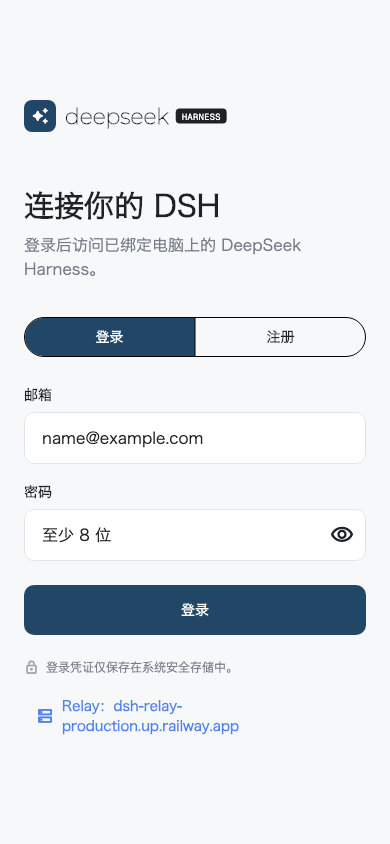
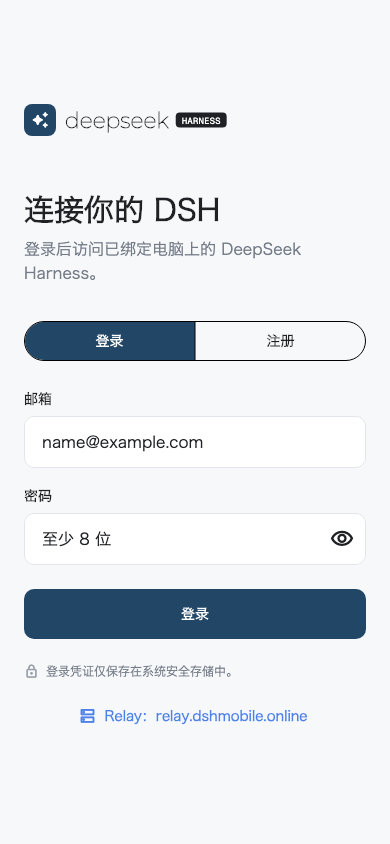
Move public mobile sessions onto the stable Relay hostname
Make relay.dshmobile.online the production default, advance the Android app version, refresh the login screenshot, and lock the hostname in configuration tests.

Constraint: Release builds require HTTPS and must keep private Relay overrides working
Rejected: Keep the Railway-generated hostname as a fallback | preserves provider coupling in every installed APK
Confidence: high
Scope-risk: moderate
Directive: Treat relay.dshmobile.online as the public client contract; change it only with a coordinated release
Tested: dart format, flutter analyze, 33 Flutter tests, screenshot generation, Android debug APK build
Not-tested: Physical Android upgrade from v0.1.0

diff --git a/lib/core/app_config.dart b/lib/core/app_config.dart
@@ -1,8 +1,7 @@
 class AppConfig {
   const AppConfig({required this.relayBaseUrl, required this.useMock});
 
-  static const productionRelayUrl =
-      'https://dsh-relay-production.up.railway.app';
+  static const productionRelayUrl = 'https://relay.dshmobile.online';
 
   factory AppConfig.fromEnvironment({String? savedRelayUrl}) {
     final config = AppConfig(

diff --git a/test/app_config_test.dart b/test/app_config_test.dart
@@ -7,6 +7,7 @@ void main() {
 
     expect(config.useMock, isFalse);
     expect(config.relayBaseUrl, AppConfig.productionRelayUrl);
+    expect(config.relayBaseUrl, 'https://relay.dshmobile.online');
     expect(config.relayOrigin.scheme, 'https');
   });
 

diff --git a/README.md b/README.md
@@ -25,7 +25,7 @@ The APK uses application ID `io.github.apriljk.dshremote`. Verify the downloaded
 
 ## Run with the production Relay
 
-The default build connects to the deployed HTTPS Relay:
+The default build connects to `https://relay.dshmobile.online`:
 
 ```bash
 flutter run
@@ -46,7 +46,7 @@ Use any valid email, a password with at least eight characters, and any six-digi
 Install the `@april-jk/dsh-mobile` plugin into the DSH web profile, then start DSH:
 
 ```bash
-dsh plugin --profile web add github:april-jk/dsh-mobile-plugin#v0.1.1
+dsh plugin --profile web add github:april-jk/dsh-mobile-plugin#v0.1.2
 dsh web
 ```
 
@@ -101,8 +101,6 @@ flutter build appbundle --release
 ```
 
 Keep the original keystore and passwords in durable secret storage. Android updates must be signed by the same key.
-
-The canonical cross-team contracts are in `../dsh-公共文档/`.
 
 ## License
 
